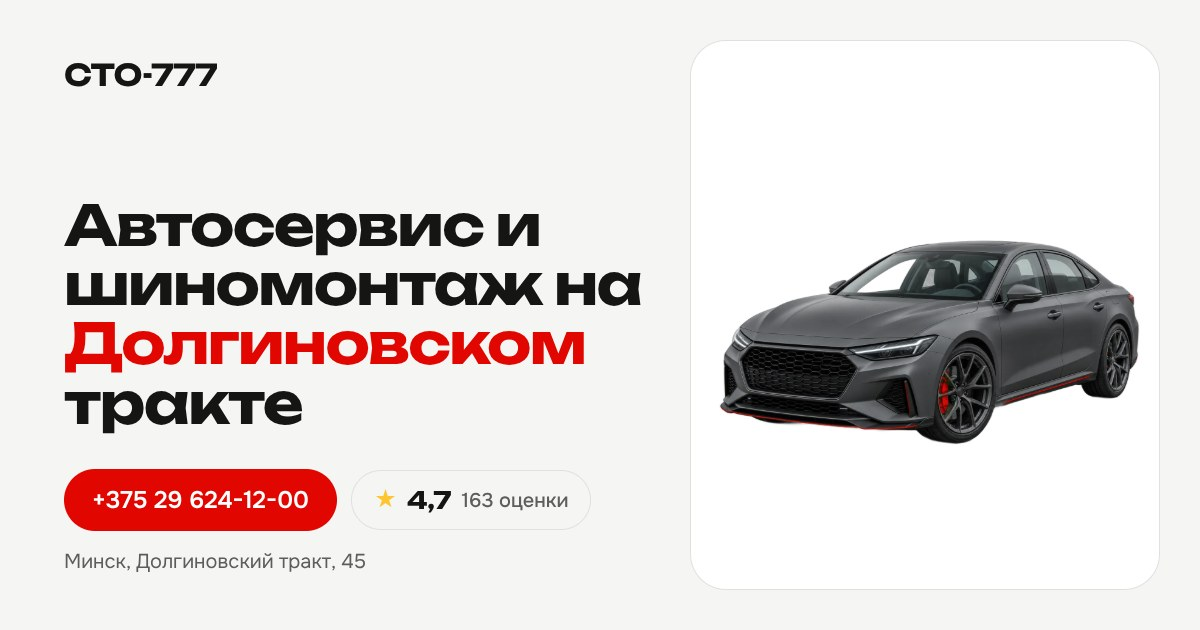
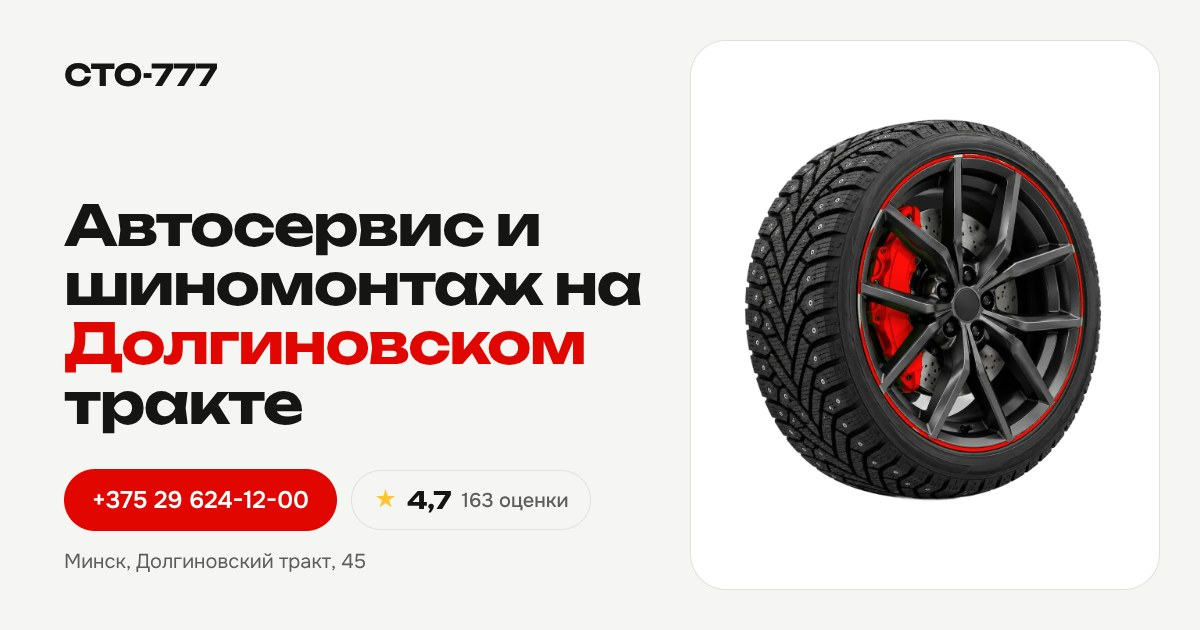
СТО-777: колесо на первом экране
Claude-Session: https://claude.ai/code/session_01SEJzzt1U6rfBWMkfHHJjTo

Changed region(s): [[0.5858, 0.181, 0.9558, 0.8143]]

diff --git a/sto-777/index.html b/sto-777/index.html
@@ -14,11 +14,11 @@
 <meta property="og:url" content="https://d1trepes.github.io/sites/sto-777/">
 <meta property="og:title" content="СТО-777 — автосервис на Долгиновском тракте, Минск">
 <meta property="og:description" content="Двигатели и дизели, коробки передач, ходовая, электрика, кузов, шиномонтаж. Рейтинг 4,7 на Яндекс Картах.">
-<meta property="og:image" content="https://d1trepes.github.io/sites/sto-777/img/og.jpg?v=181fc0bf">
+<meta property="og:image" content="https://d1trepes.github.io/sites/sto-777/img/og.jpg?v=36533ae8">
 <meta property="og:image:width" content="1200">
 <meta property="og:image:height" content="630">
 <meta name="twitter:card" content="summary_large_image">
-<link rel="preload" as="image" href="img/hero-sedan.webp" fetchpriority="high">
+<link rel="preload" as="image" href="img/hero-wheel.webp" fetchpriority="high">
 <link rel="preconnect" href="https://fonts.googleapis.com">
 <link rel="preconnect" href="https://fonts.gstatic.com" crossorigin>
 <link href="https://fonts.googleapis.com/css2?family=Onest:wght@400;500;600&family=Unbounded:wght@500;700&display=swap" rel="stylesheet">
@@ -30,7 +30,7 @@
   "@type": "AutoRepair",
   "name": "СТО-777",
   "url": "https://d1trepes.github.io/sites/sto-777/",
-  "image": "https://d1trepes.github.io/sites/sto-777/img/og.jpg?v=181fc0bf",
+  "image": "https://d1trepes.github.io/sites/sto-777/img/og.jpg?v=36533ae8",
   "telephone": "+375296241200",
   "address": {
     "@type": "PostalAddress",
@@ -70,7 +70,7 @@
       
       <div class="trust rv" style="--d:0.3s"><b>4,7</b><div><span class="stars" aria-label="5 из 5"><svg viewBox="0 0 20 20" fill="currentColor" aria-hidden="true"><path d="M10 1.5l2.6 5.5 6 .7-4.5 4.1 1.2 5.9L10 14.8l-5.3 2.9 1.2-5.9L1.4 7.7l6-.7z"/></svg><svg viewBox="0 0 20 20" fill="currentColor" aria-hidden="true"><path d="M10 1.5l2.6 5.5 6 .7-4.5 4.1 1.2 5.9L10 14.8l-5.3 2.9 1.2-5.9L1.4 7.7l6-.7z"/></svg><svg viewBox="0 0 20 20" fill="currentColor" aria-hidden="true"><path d="M10 1.5l2.6 5.5 6 .7-4.5 4.1 1.2 5.9L10 14.8l-5.3 2.9 1.2-5.9L1.4 7.7l6-.7z"/></svg><svg viewBox="0 0 20 20" fill="currentColor" aria-hidden="true"><path d="M10 1.5l2.6 5.5 6 .7-4.5 4.1 1.2 5.9L10 14.8l-5.3 2.9 1.2-5.9L1.4 7.7l6-.7z"/></svg><svg viewBox="0 0 20 20" fill="currentColor" aria-hidden="true"><path d="M10 1.5l2.6 5.5 6 .7-4.5 4.1 1.2 5.9L10 14.8l-5.3 2.9 1.2-5.9L1.4 7.7l6-.7z"/></svg></span><span style="display:block;margin-top:4px">54 отзыва · 163 оценки на Яндекс Картах</span></div></div>
     </div>
-    <div class="car w rv" style="--d:0.15s"><img src="img/hero-sedan.webp" alt="Легковой седан — ремонт автомобилей в автосервисе СТО-777, Долгиновский тракт, Минск" fetchpriority="high"></div>
+    <div class="car m rv" style="--d:0.15s"><img src="img/hero-wheel.webp" alt="Колесо с шипованной шиной — шиномонтаж СТО-777, Долгиновский тракт, Минск" fetchpriority="high"></div>
   </div>
 </section>
 <section id="blok" class="notitle" style="padding-top:0"><div class="wrap">

diff --git a/tablica/index.html b/tablica/index.html
@@ -36,7 +36,7 @@ dl{display:flex;flex-wrap:wrap;gap:6px 18px;font-size:13px}dt{color:var(--mut);f
 .nt{font-size:13px;color:var(--mut);border-top:1px dashed var(--line);padding-top:10px}
 @media(max-width:760px){.kpi{grid-template-columns:repeat(2,1fr)}.grid{grid-template-columns:1fr}h1{font-size:26px}}
 </style></head><body><div class="w">
-<div class="top"><div><h1>Мои клиенты</h1><p>Сайты для автосервисов · обновлено 24 октября в 23:46</p></div></div>
+<div class="top"><div><h1>Мои клиенты</h1><p>Сайты для автосервисов · обновлено 24 октября в 23:48</p></div></div>
 <div class="kpi">
 <div class="k"><b>11</b><span>всего сервисов</span></div>
 <div class="k"><b>10</b><span>демо ждут звонка</span></div>

diff --git a/sto-777/notes.md b/sto-777/notes.md
@@ -4,3 +4,4 @@
   - «Гарантия» — из особенностей карточки, условия не указаны («подскажем по телефону»). «Официальный автосервис» и Wi-Fi не брали.
   - Из отзывов вне отзывов ничего не брали: развал-схождение, мастер/шиномонтажник Андрей, «лучше записываться заранее», клиенты из Петербурга.
   - Спросить у владельца: часы работы; цены (шиномонтаж, диагностика, замена масла, кондиционер); фото сервиса; условия гарантии; делают ли развал-схождение (тогда добавить в услуги); Viber/Telegram; оплата картой; ссылка на карточку Яндекса; как заехать (вход с лестницы?).
+- 2026-10-24: на первый экран поставлено колесо из библиотеки (hero-wheel, перекрашено в красный) вместо седана.
